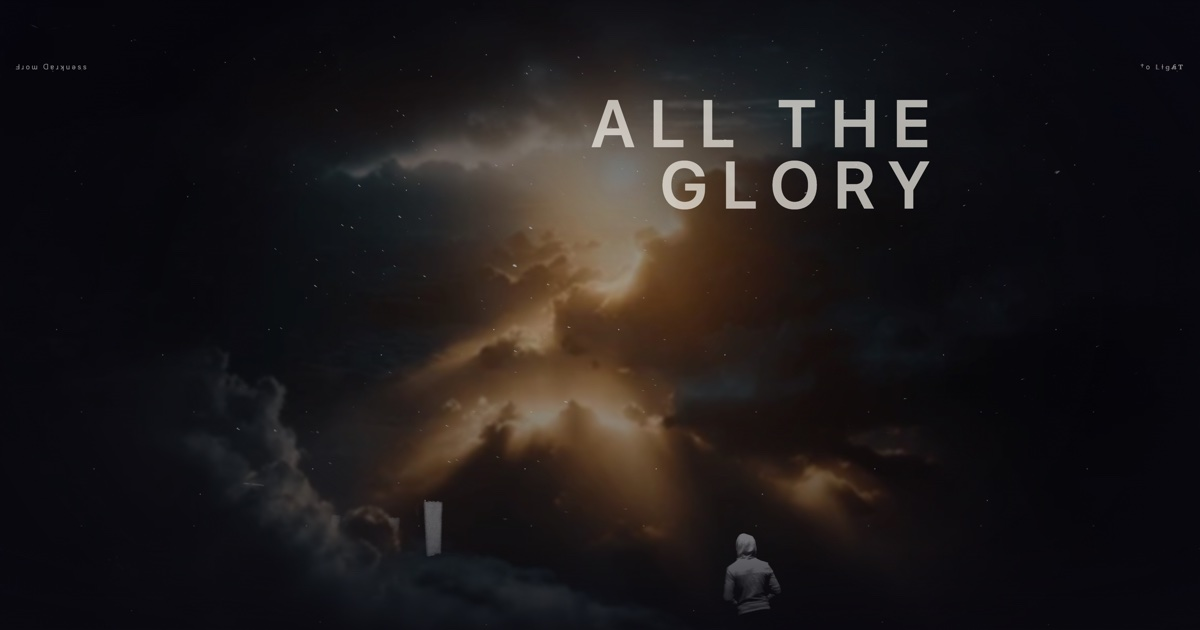
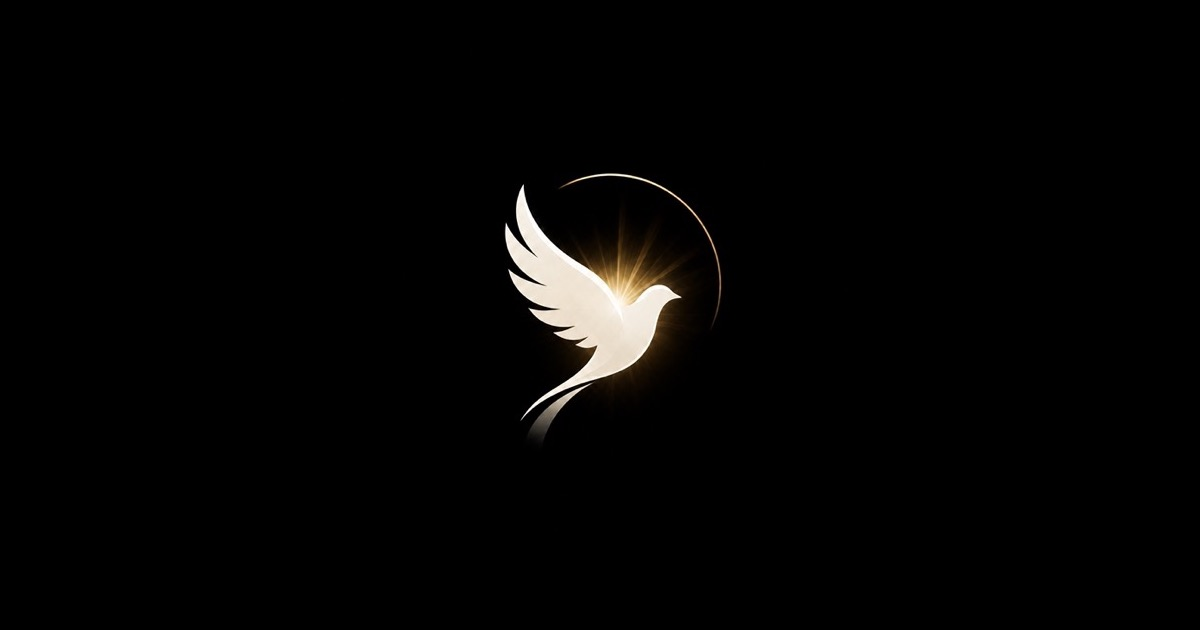
feat: dove OG preview + dove hero on /contact
When the alltheglory.co.za link is shared in WhatsApp / iMessage /
Facebook / X, the preview now shows the dove + golden-sunburst
logo on a black canvas instead of the generic album-art tile.

- Rebuilt public/og-image.jpg as a 1200x630 OG-spec image with the
  dove resized to ~540px and centred on the matching black field.
  Every layout in src/app/**/layout.tsx already references
  /og-image.jpg, so no per-page metadata changes are needed —
  every URL on the site picks up the new preview automatically.

Also drops the full dove artwork into the /contact page hero,
above the "CONTACT / Get in touch" header:

- Sized clamp(120px, 18vw, 180px) so it scales between phone and
  desktop without crowding the form.
- Sits over a soft amber radial glow that warms the surrounding
  cloud area without competing with the painting body background.
- Fades in via the same headerTransition timing as the rest of
  the hero block so it feels part of the entrance, not a tacked-on
  element.
- Honours prefers-reduced-motion — instant reveal when reduced.

diff --git a/src/app/contact/page.tsx b/src/app/contact/page.tsx
@@ -1,6 +1,7 @@
 "use client";
 
 import { useState, type FormEvent } from "react";
+import Image from "next/image";
 import { motion, useReducedMotion } from "framer-motion";
 import NewsletterSignup from "@/components/ui/newsletter-signup";
 import { site } from "@/content/site";
@@ -111,6 +112,39 @@ export default function ContactPage() {
           transition={headerTransition}
           className="max-w-4xl mx-auto px-6 text-center"
         >
+          {/* Full dove + sunburst artwork — the source asset is on a
+              solid black field that bleeds into the painted body
+              background, so it reads as the logo descending into the
+              page rather than a pasted-on tile. The amber radial glow
+              behind it warms the surrounding cloud area without
+              fighting the painting. */}
+          <motion.div
+            initial={reduce ? { opacity: 0 } : { opacity: 0, y: -16 }}
+            animate={{ opacity: 1, y: 0 }}
+            transition={
+              reduce
+                ? { duration: 0.01 }
+                : { duration: 1.6, delay: 0.05, ease: [0.16, 1, 0.3, 1] as const }
+            }
+            className="relative mx-auto mb-6 md:mb-8 w-[clamp(120px,18vw,180px)] aspect-square"
+          >
+            <div
+              aria-hidden="true"
+              className="absolute inset-0 -m-8 rounded-full blur-3xl opacity-50"
+              style={{
+                background:
+                  "radial-gradient(50% 50% at 50% 55%, rgba(216,178,90,0.45), rgba(216,178,90,0.10) 55%, transparent 75%)",
+              }}
+            />
+            <Image
+              src="/media/logo-dove.jpg"
+              alt="All The Glory"
+              fill
+              priority
+              sizes="(max-width: 768px) 140px, 180px"
+              className="relative object-contain"
+            />
+          </motion.div>
           <div className="eyebrow mb-4">Contact</div>
           <h1 className="font-display text-4xl md:text-6xl font-normal text-white tracking-tight mb-4">
             Get in touch